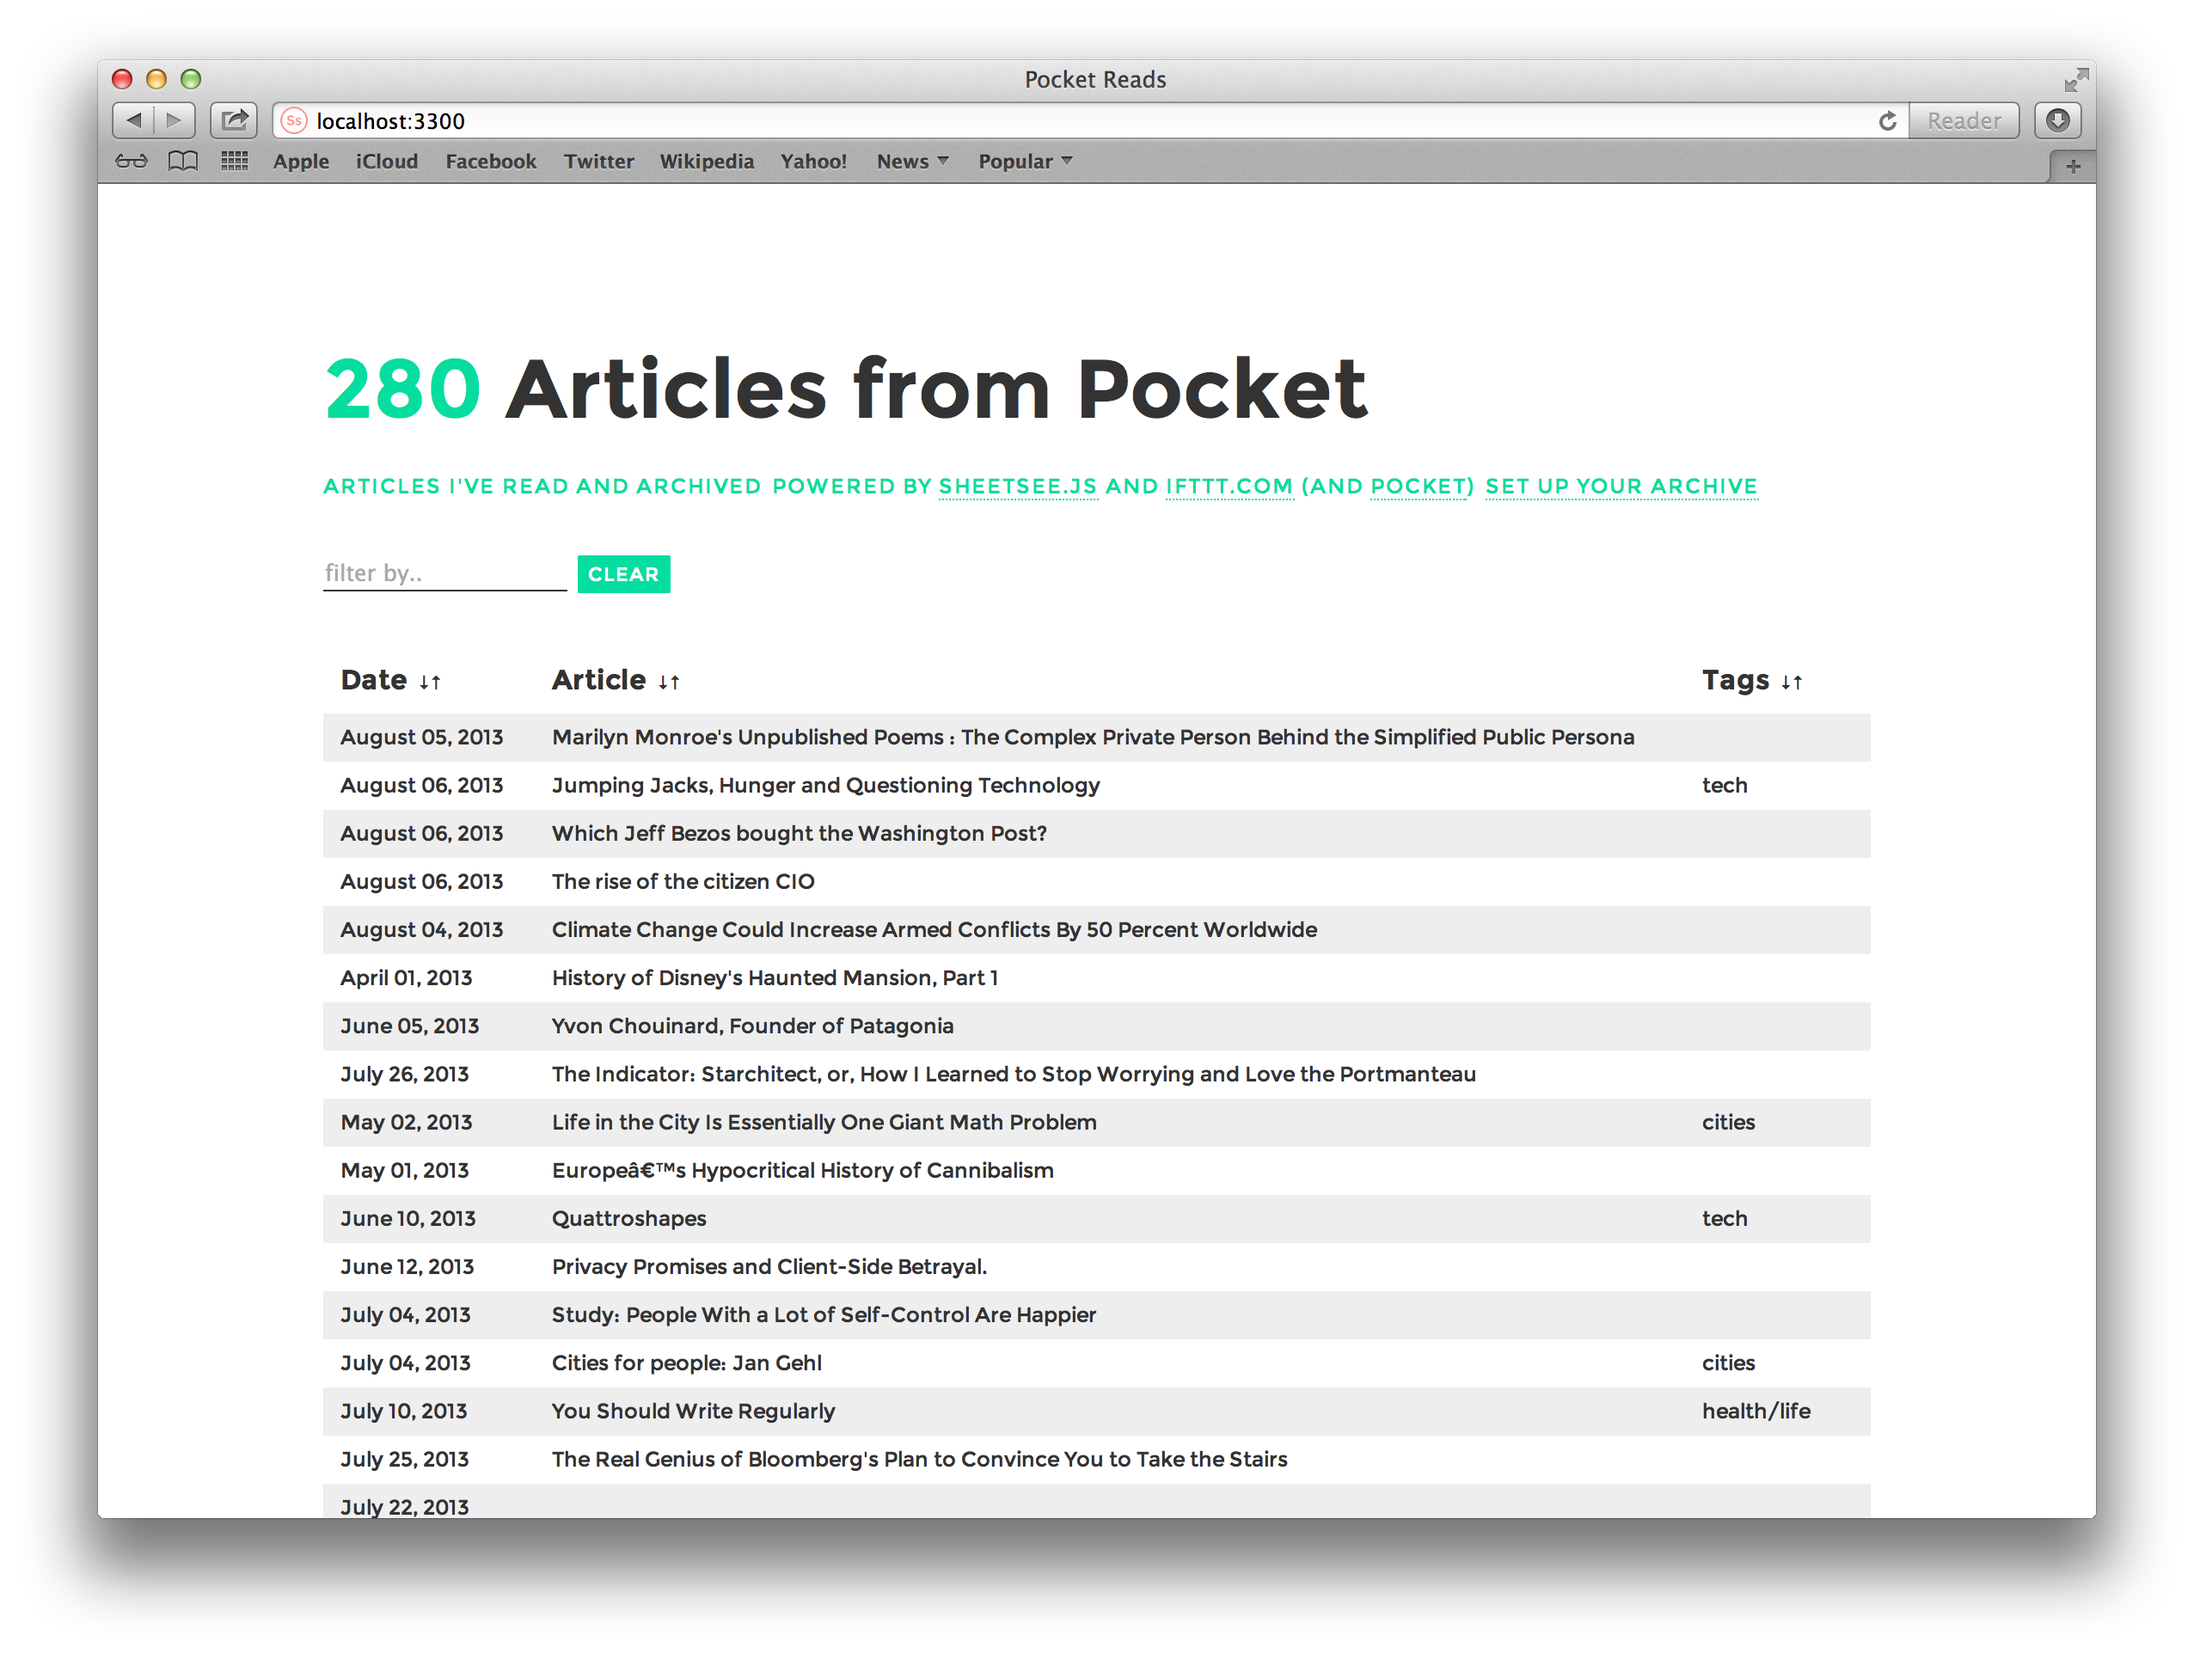
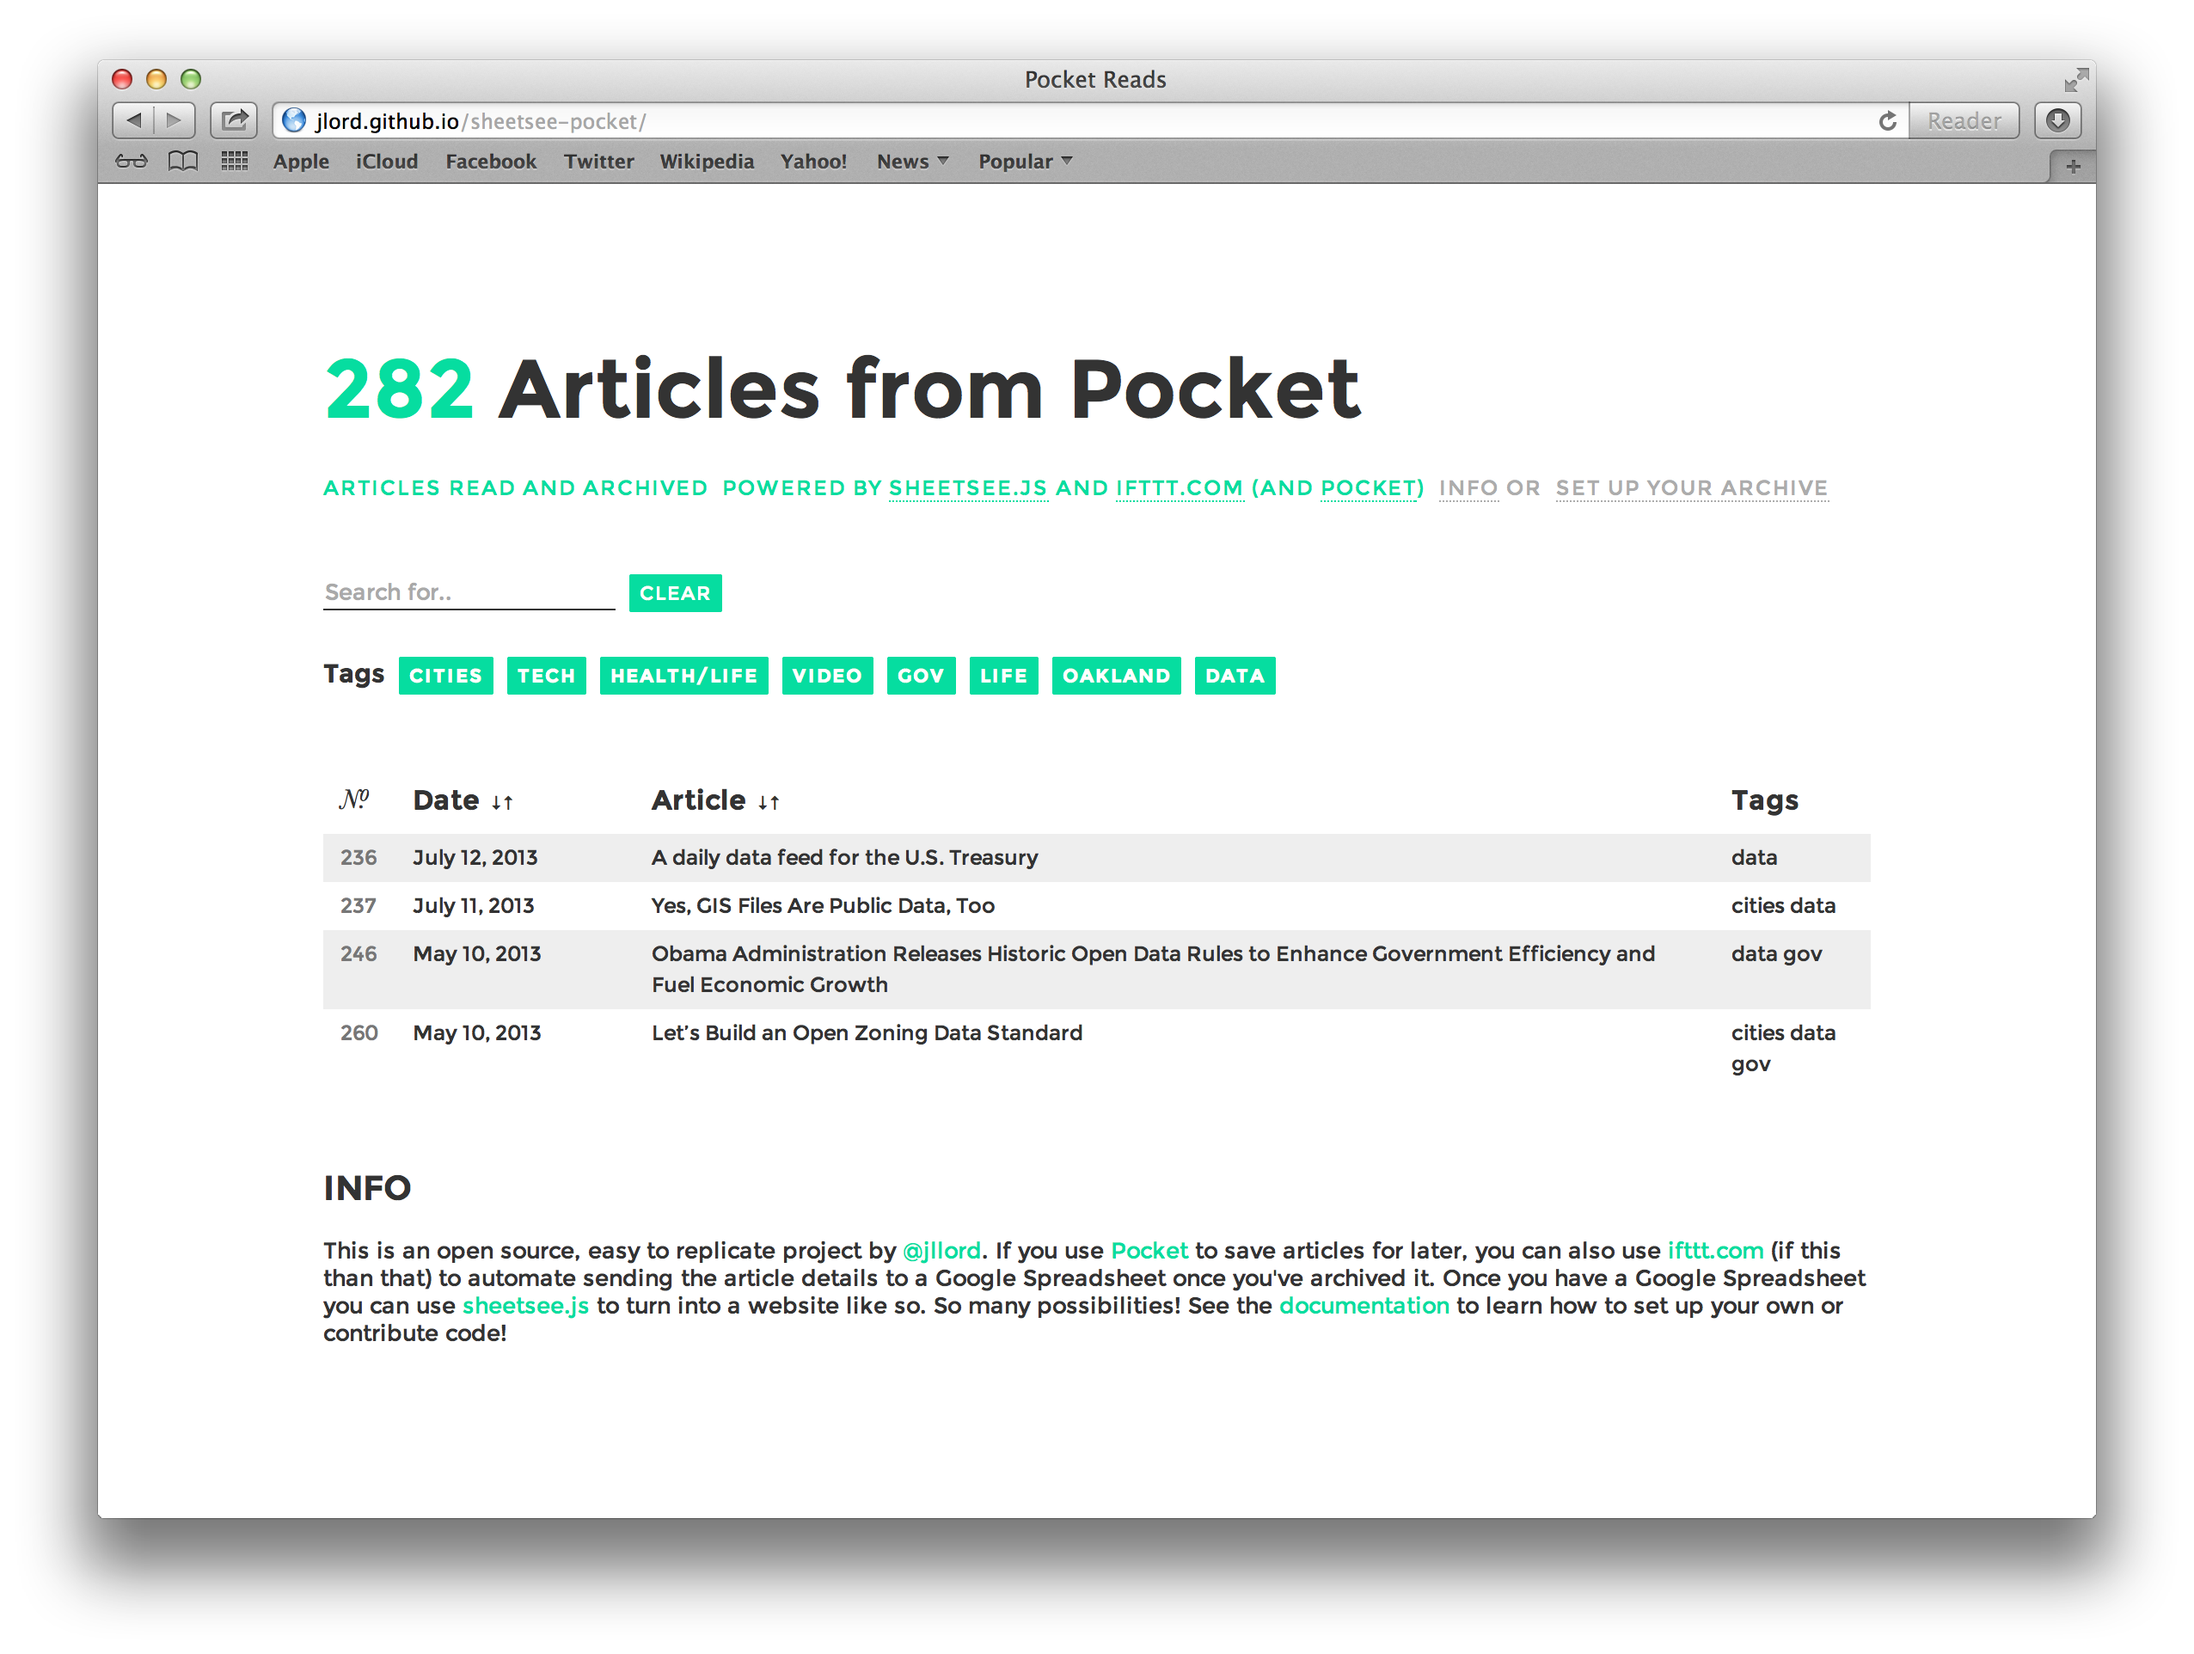
readme

diff --git a/README.md b/README.md
@@ -4,4 +4,41 @@
 
 A website for your Pocket article archive. Fork-n-Go set up.
 
-Will write more when I wake up! 
+### Fork-n-Go
+
+This repository only has a gh-pages with web files - that means as soon as you fork it, you have a live version yourself! You'd be able to visit it at yourGitHubName.github.io/sheetsee-pocket. 
+
+It would still be connected to my spreadsheet with my Pocket archive - but that's easy to change!
+
+#### Use ifttt.com for Pocket -> Spreadsheet
+
+If you don't have already have an account with both [Pocket](http://www.getpocket.com) (a read-it-later service) and [ifttt.com](http://www.ifttt.com) go ahead and create em. If you don't have a [Google](http://drive.google.com) account, get on that too. 
+
+![ifttt](https://raw.github.com/jlord/sheetsee-pocket/master/ifttt.png)
+
+In ifttt.com set up [this recipe](https://ifttt.com/recipes/111549) that will take your each article you archive on Pocket and add it to a row in a Google Spreadsheet.
+
+_Now go read some things in your Pocket and archiv`e em. You know, make the datas._
+
+Once you've got some entries, checkout your spreadsheet, change the column headers to: **date, article, tags, url, except**. Renaming won't break anything. Also, even though it's archiving an except, I'm not using in this project. But maybe you can find a neat way to use them?
+
+While you're at your spreadsheet, you'll want to pusblish it to the web and get it's unique key. You'll find that by clicking File > Publish to the Web > Start Publishing, it will then display the key in a window. Copy it!
+
+![get key](https://raw.github.com/jllord/sheetsee-cache/master/img/key.png)
+
+Now, visit your fork of this repository. Click the `index.html` file, and then when that page loads, click Edit.
+
+![ifttt](https://raw.github.com/jlord/sheetsee-pocket/master/indexedit.png)
+
+Scroll to find **line 61** (or thereabouts), it looks like: 
+
+```javascript
+    document.addEventListener('DOMContentLoaded', function() {
+	  	var gData
+	  	var URL = "0Ao5u1U6KYND7dFVkcnJRNUtHWUNKamxoRGg4ZzNiT3c"
+			Tabletop.init( { key: URL, callback: showInfo, simpleSheet: true } ) 
+    }) 
+```
+Paste your spreadsheet's key in the place of 0Ao5u...
+
+At the bottom of the page, click Commit. You're done! Visit your site! 
